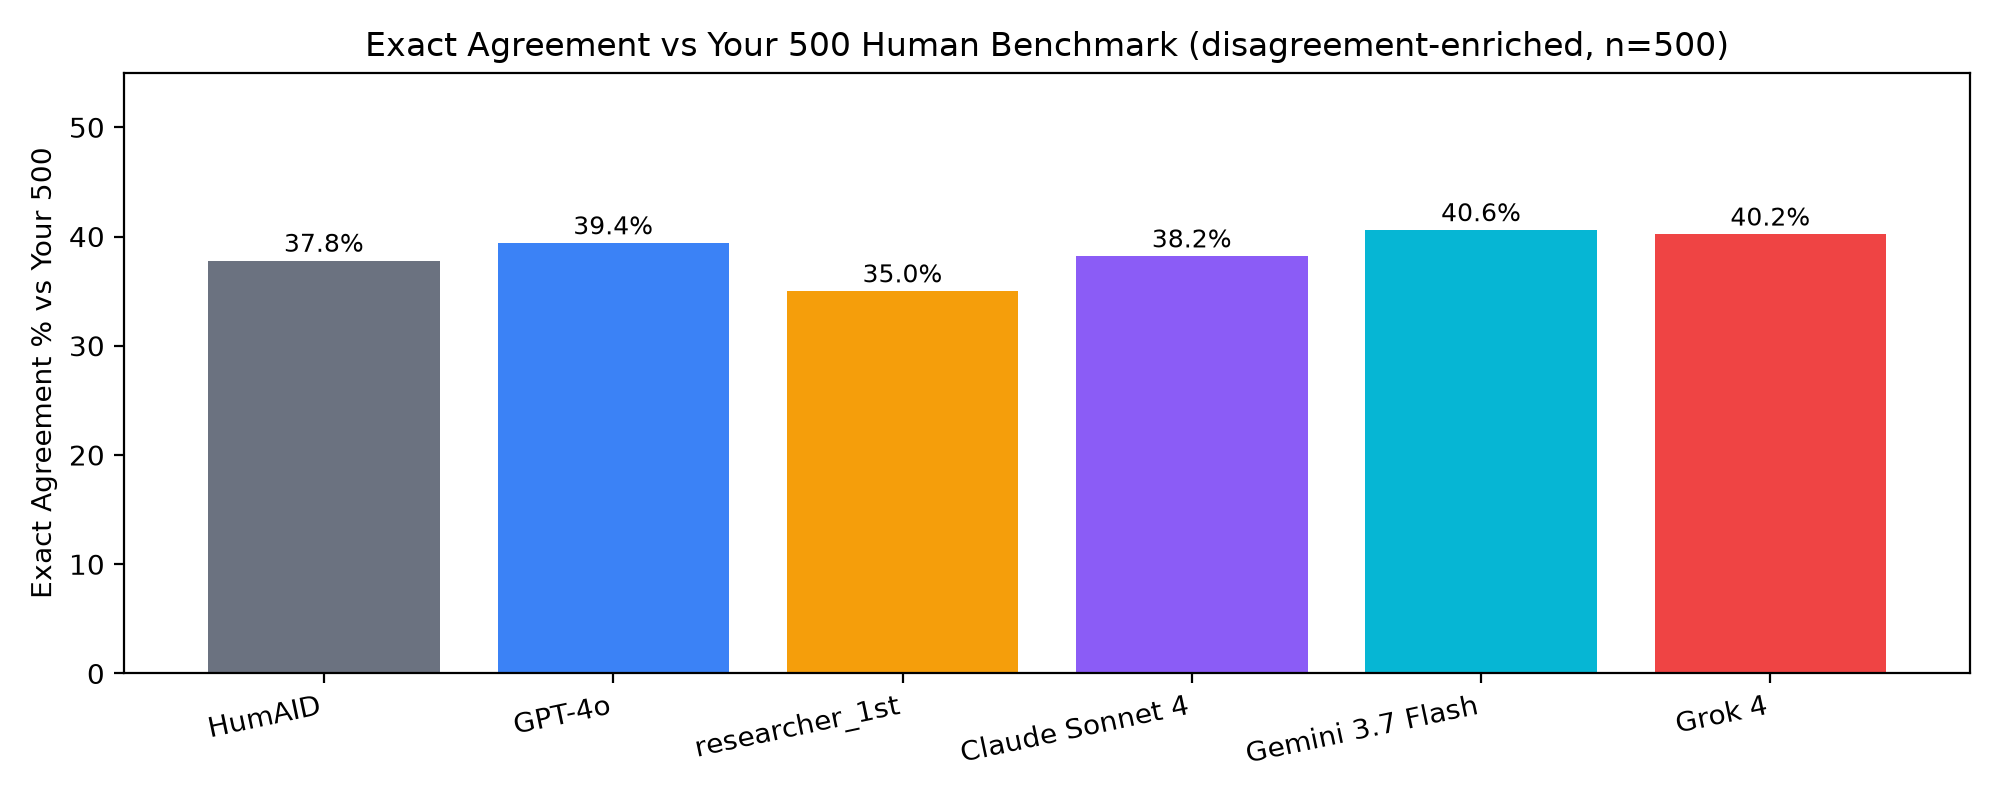
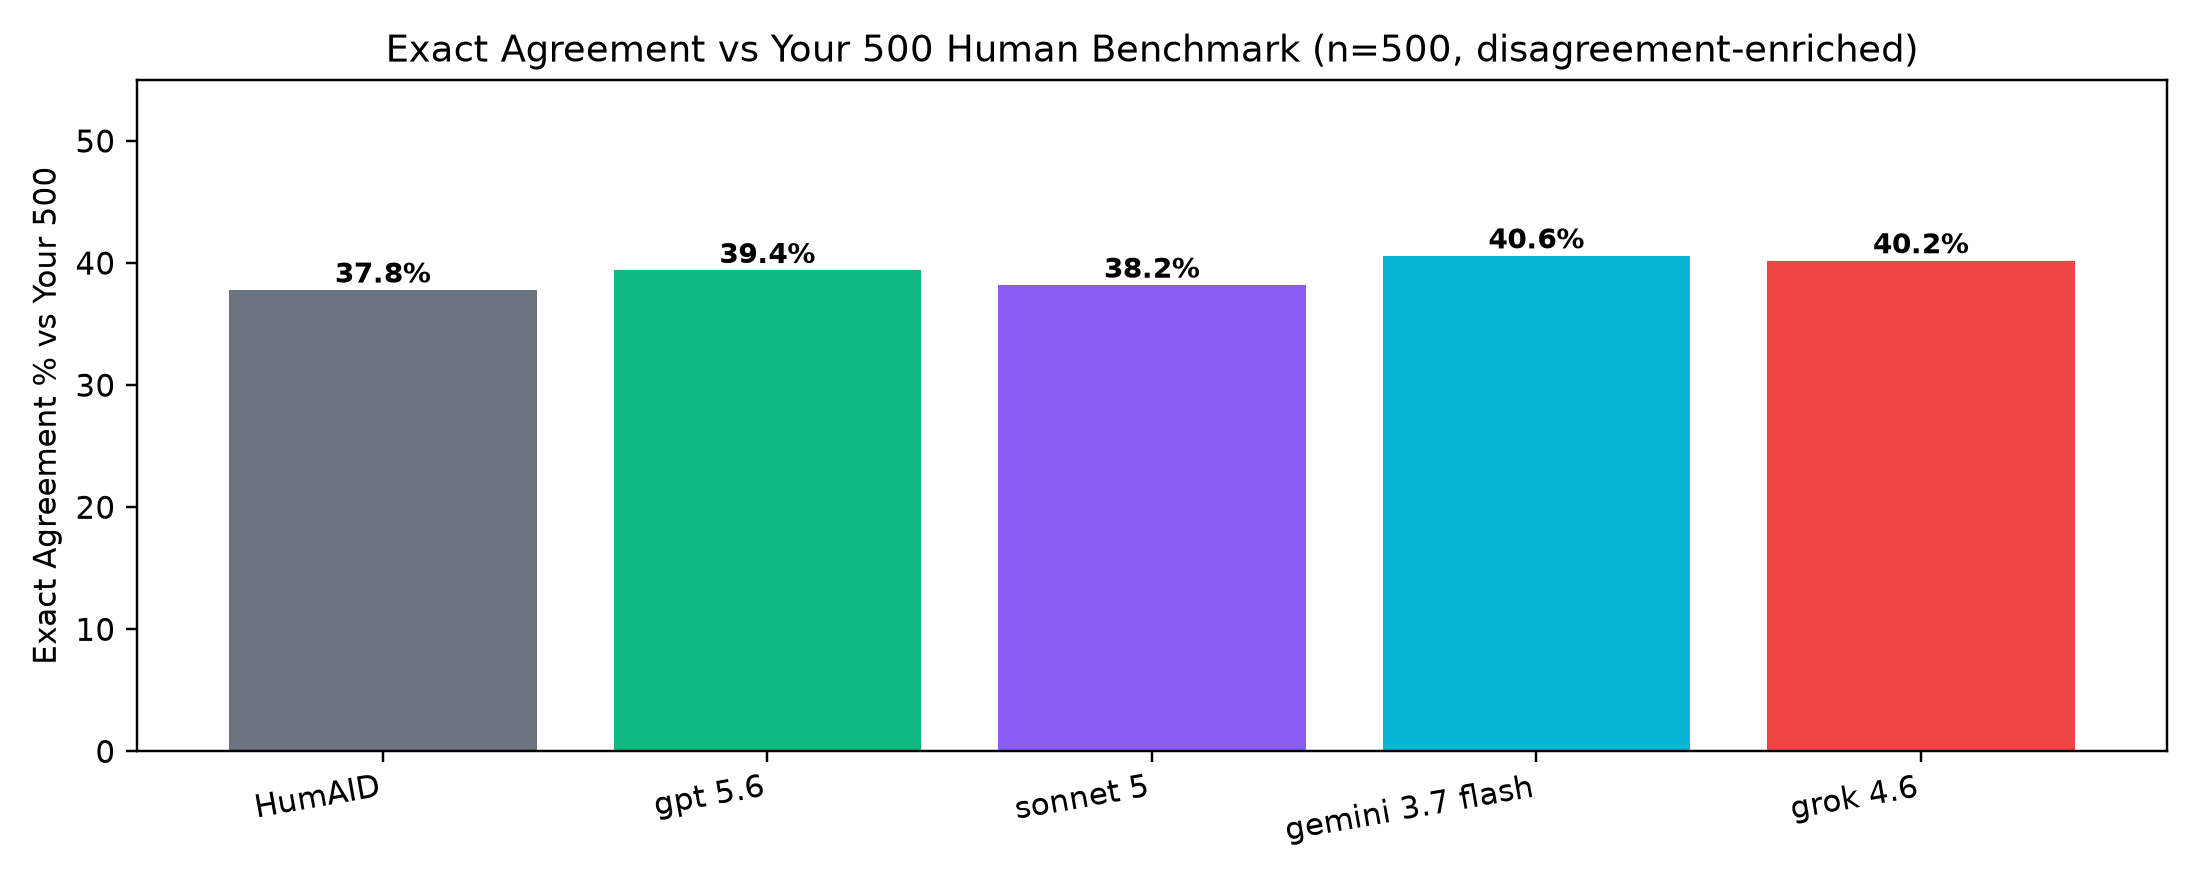
Fix model names to exact user spec: gpt 5.6, grok 4.6, sonnet 5, gemini 3.7 flash

diff --git a/research_repo_payload/research_audit/audit_v2_500/final_freeze/PAPER_EXPERIMENT_PLAN.md b/research_repo_payload/research_audit/audit_v2_500/final_freeze/PAPER_EXPERIMENT_PLAN.md
@@ -4,14 +4,14 @@
 - 500/500 manually reviewed (P1 101/101, P2 78/78, P3 90/90, P4 231/231)
 - Canonical: `researcher_adjudicated_canonical_500.csv` (hash d06926...)
 - Export: `local_human_review/exports/20260831T053053Z` (manifest verified)
-- All original labels and model outputs preserved separately (Humaid/GPT-4o/claude/gemini/grok + researcher_first_pass)
+- All original labels and model outputs preserved separately (Humaid/gpt 5.6/claude/gemini/grok + researcher_first_pass)
 
 ## Benchmark Comparison (human as ground truth, 500)
 - human vs HumAID: 37.8% exact, macroF1 0.391, kappa 0.303
-- human vs GPT-4o: 39.4%, 0.412, 0.322
+- human vs gpt 5.6: 39.4%, 0.412, 0.322
 - human vs researcher_first_pass: 35.0% (175 accepted / 325 changed)
 - human vs claude 38.2%, gemini 40.6%, grok 40.2%
-- Contested 250: human sided GPT-4o 31.2%, HumAID 28.0%, neither 40.8% (researcher_first_pass sided GPT-4o 54%)
+- Contested 250: human sided gpt 5.6 31.2%, HumAID 28.0%, neither 40.8% (researcher_first_pass sided gpt 5.6 54%)
 - Per-class recall collapse on human `other_relevant` (0.65 recall but 0.17 precision vs HumAID) — human conservative
 - `other_relevant` remains high across all priorities (P1 51.5%, P2 32.1%, P3 46.7%, P4 41.1%) — not P1-specific
 
@@ -33,7 +33,7 @@ python -m lg_cotrain.run_experiment --pseudo-label-source human-corrected --even
 ```
 
 ### C. Human + pseudo-labelled
-Combine corrected 500 with GPT-4o pseudo-labelled pool:
+Combine corrected 500 with gpt 5.6 pseudo-labelled pool:
 ```bash
 python -m lg_cotrain.run_experiment --pseudo-label-source gpt-4o --events ... # baseline
 # vs human-corrected + pseudo
